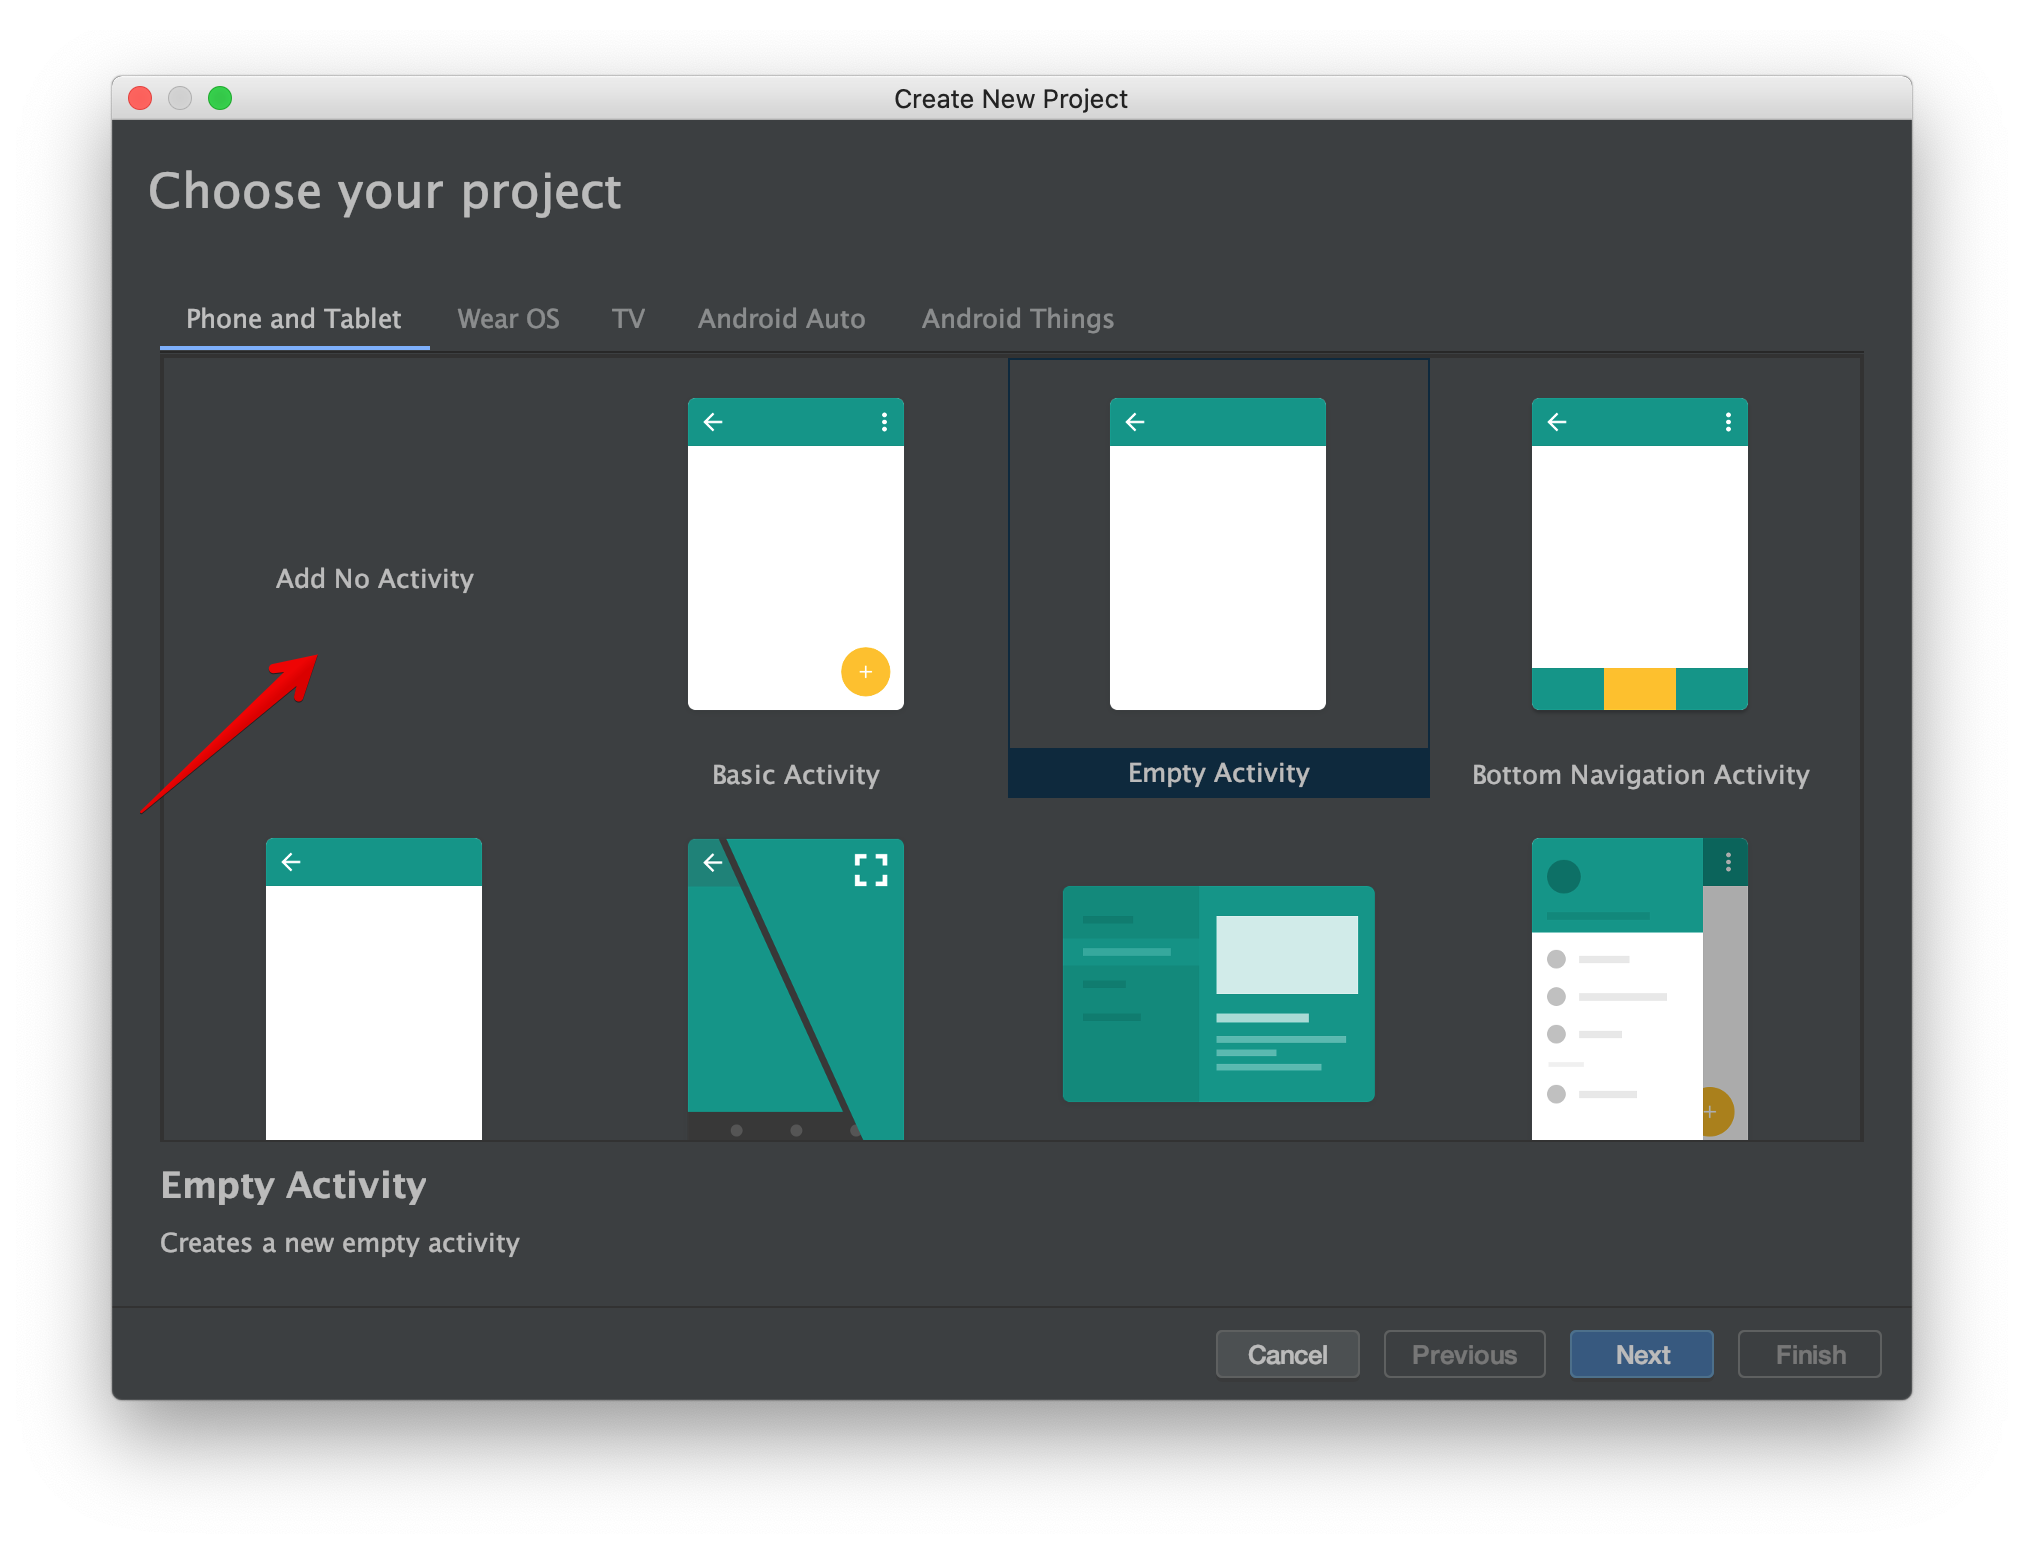
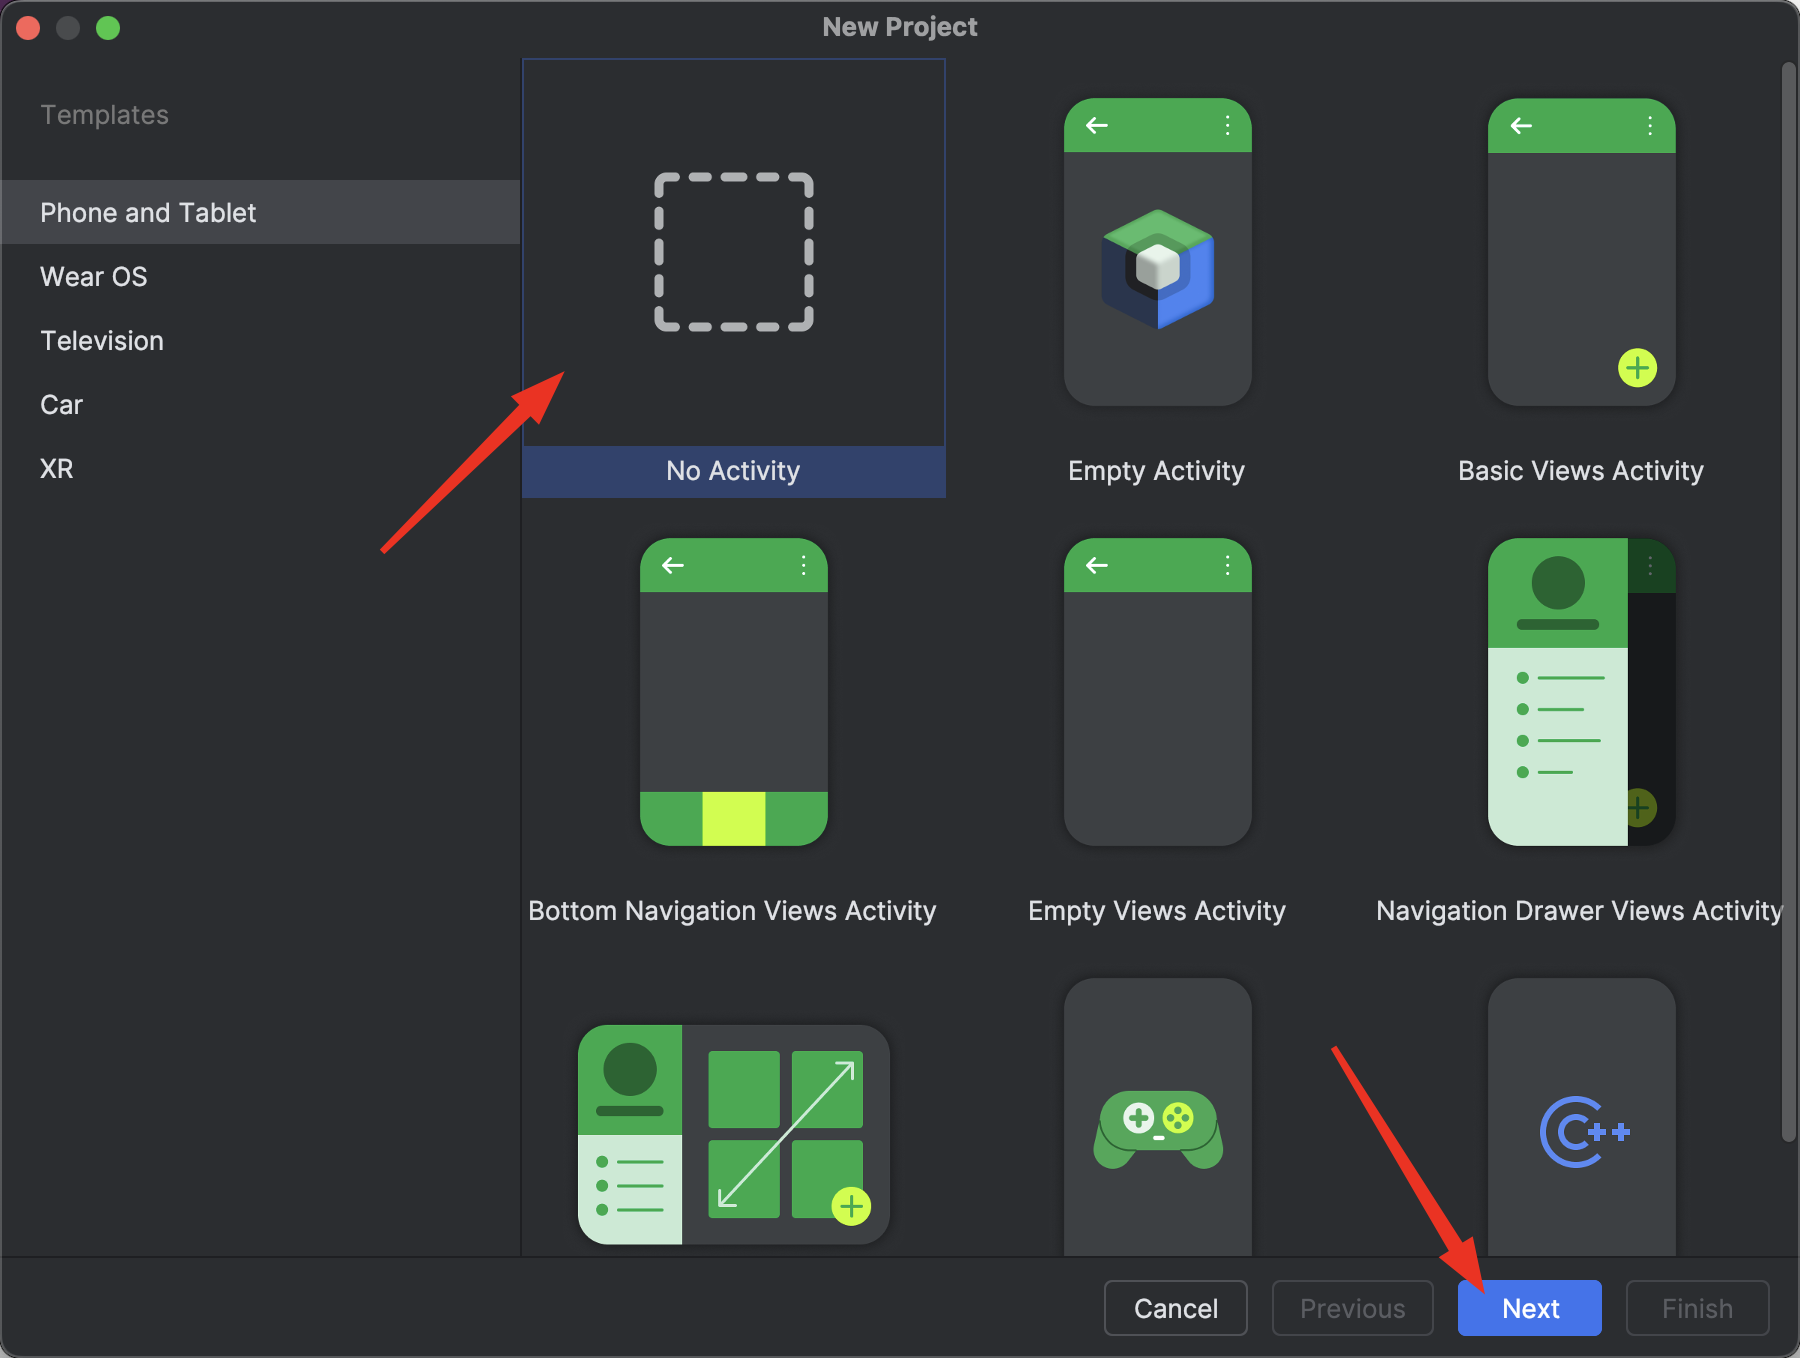
Update android profiler

diff --git a/Tools/Using Android Profiler.md b/Tools/Using Android Profiler.md
@@ -14,9 +14,12 @@ The Android Profiler tools provide real-time data to help you to understand how 
 
 Profiling ("program profiling", "software profiling") is a form of dynamic program analysis that measures, for example, the space (memory) or time complexity of a program, the usage of particular instructions, or the frequency and duration of function calls.
 
-You will need Android Studio for this, go ahead and download it from this [link](https://developer.android.com/studio) and install it.
+You will need [Android Studio](https://developer.android.com/studio) for this, so make sure to download and install it.
 
-The Android Profiler is compatible with Android 5.0 (API level 21) and higher.
+To profile your app, it's recommended to have:
+- An app with a release build variant that has the profileable manifest configuration enabled, also known as a profileable app
+- A virtual or physical test device that runs API level 29 or higher and has Google Play
+- Android Gradle Plugin 7.3 or higher
 
 There are two ways to start profiling:
 
@@ -29,20 +32,18 @@ You want to have debug APK because it is much easier and faster solution. If the
 
 1. Open Android Studio.
 
-2. Select "Start a new Android Studio project".
+2. Select "New Project".
 	
 	![](/img/Android_Studio-start_new_project.png)
 
-3. Select "Add no activity" and click on Next button.
+3. Select "No activity" and click Next.
 
 	![](/img/Android_Studio-add_no_activity.png)
 
-4. On "Configure your project" step, you can change project name, where to save the project, etc. You can only change Minimum API level to API level 21. Click on Finish button.
+4. Update the Minimum API level and click Finish to create an empty project.
 
 	![](/img/Android_Studio-configure_your_project.png)
-	
-	You just created an empty project.
-	
+		
 5. Connect Android device with USB cable to Macbook and make sure USB debugging is enabled.
 
 6. In Android Studio, the connected device will be shown.
@@ -75,15 +76,15 @@ You want to have debug APK because it is much easier and faster solution. If the
 
 [**Network Profiler**](https://developer.android.com/studio/profile/network-profiler) - The Network Profiler displays realtime network activity on a timeline, showing data sent and received, as well as the current number of connections.
 
-[**Energy Profiler**](https://developer.android.com/studio/profile/energy-profiler) - The Energy Profiler monitors the use of the CPU, network radio, and GPS sensor, and it displays a visualization of how much energy each of these components uses.
+[**Power Profiler**](https://developer.android.com/studio/profile/power-profiler) - The Power Profiler monitors the use of the CPU, network radio, and GPS sensor, and it displays a visualization of how much energy each of these components uses.
 
-[**Memory Profiler**](https://developer.android.com/studio/profile/memory-profiler) -  The Memory Profiler can help you identify memory leaks and memory churn that can lead to stutter, freezes, and even app crashes.
+[**Capture a Heap Dump**](https://developer.android.com/studio/profile/capture-heap-dump) -  Capture a heap dump to identify memory leaks and memory churn that can lead to stutter, freezes, and even app crashes.
 
 [**CPU Profiler**](https://developer.android.com/studio/profile/cpu-profiler) - The CPU Profiler is used to inspect your app's CPU usage and thread activity in real time while interacting with your app, or you can inspect the details in recorded method traces, function traces, and system traces.
 
 ## Testing battery usage
 
-The [Energy Profiler](https://developer.android.com/studio/profile/energy-profiler) helps you find where your app uses more energy than necessary. It consists of three timelines: Event timeline, Energy timeline and System timeline. The Profiler monitors the use of CPU, network, GPS and system events and presents them in form of bars and horizontal lines (system events). The higher/longer the bar is, the more energy is being used. You can place a mouse over any part of the timeline for more info.
+The [Power Profiler](https://developer.android.com/studio/profile/power-profiler) helps you find where your app uses more energy than necessary. It consists of three timelines: Event timeline, Energy timeline and System timeline. The Profiler monitors the use of CPU, network, GPS and system events and presents them in form of bars and horizontal lines (system events). The higher/longer the bar is, the more energy is being used. You can place a mouse over any part of the timeline for more info.
 
  ![1_battery.png](/img/1_battery.png)
 
@@ -103,7 +104,7 @@ The [Energy Profiler](https://developer.android.com/studio/profile/energy-profil
 
 ### Steps:
 
-1. [Download](https://developer.android.com/studio), install and run Android Studio.
+1. Make sure you have [Android Studio](https://developer.android.com/studio) installed.
 2. Click on "New Project".
 3. Select "No Activity" and click Next.
 4. Set the "Name" and "Android version" that isn't above the one you are running on your test device (otherwise Android Studio will notify you with a warning).
@@ -119,15 +120,13 @@ In case your app isn't present, try to run it on your device first to trigger a 
  ![4_battery.png](/img/4_battery.png)
 
  ![5_battery.png](/img/5_battery.png)
-  
 
-The Energy Profiler provides the user with insight into the usage of these events and processes to check if there are any excessive impacts on the battery.  
-For more info about "wake locks", "alarms" and "jobs" check [this](https://developer.android.com/studio/profile/energy-profiler#inspect_system_events_wake_locks_jobs_and_alarms).
+The Power Profiler provides the user with insight into the usage of these events and processes to check if there are any excessive impacts on the battery.
 
  
 ### Troubleshooting - what to do if it doesn't work 
 
-1. Check if you have ADB installed on your computer (if your are not sure or ask yourself "What is ADB?" check [this](https://infinum.com/handbook/books/qa/tools/using-adb)).
+1. Check if you have ADB installed on your computer (if your are not sure or ask yourself "What is ADB?" check [our handbook](https://infinum.com/handbook/books/qa/tools/using-adb)).
 2. Check if you set "USB debugging" to "ON".  
 3. Try the "Revoke USB debugging authorizations" option, disconnect the phone, connect it again and allow the connection via the prompt that shows up.
 4. Try other USB cables.  
